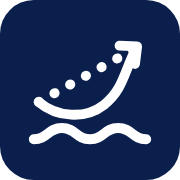
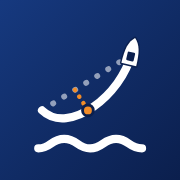
Ícone com acabamento: degradê, casco, desvio em laranja; versões maskable e Apple opacas

diff --git a/sw.js b/sw.js
@@ -1,4 +1,4 @@
-var C='navexpertzp-1-v2',F=['./','./index.html','./manifest.webmanifest','./icon-192.png','./icon-512.png','./icon.svg'];
+var C='navexpertzp-1-v3',F=['./','./index.html','./manifest.webmanifest','./icon-192.png','./icon-512.png','./icon.svg'];
 self.addEventListener('install',function(e){e.waitUntil(caches.open(C).then(function(c){return c.addAll(F)}).then(function(){return self.skipWaiting()}))});
 self.addEventListener('activate',function(e){e.waitUntil(caches.keys().then(function(k){return Promise.all(k.filter(function(n){return n!==C}).map(function(n){return caches.delete(n)}))}).then(function(){return self.clients.claim()}))});
 self.addEventListener('fetch',function(e){if(e.request.method!=='GET')return;e.respondWith(caches.match(e.request).then(function(r){return r||fetch(e.request).then(function(n){var cp=n.clone();caches.open(C).then(function(c){c.put(e.request,cp)});return n}).catch(function(){return caches.match('./index.html')})}))});
